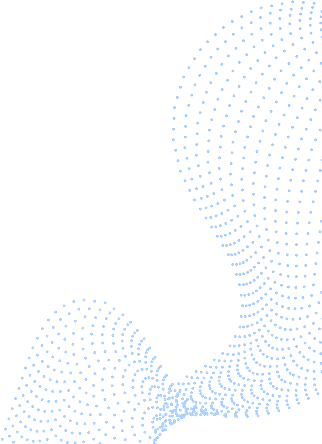
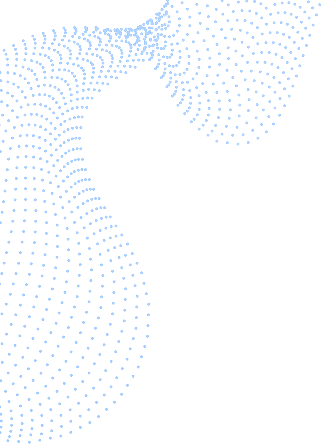
Background image added to about us section.

diff --git a/src/components/AboutUs/AboutUs.module.css b/src/components/AboutUs/AboutUs.module.css
@@ -1,5 +1,10 @@
 .aboutUsSection {
   background-color: var(--main-bg-color);
+  background-image: url("../../images/bg-art-1.png"),
+    url("../../images/bg-art-2.png");
+  background-position: left top, right bottom;
+  background-repeat: no-repeat;
+  background-size: 250px;
   padding: 1rem 1.5rem 3rem 1.5rem;
   display: flex;
   flex-direction: column;
@@ -45,6 +50,18 @@
   outline: none;
   padding: 0.5rem;
   cursor: pointer;
+}
+
+@media screen and (max-width: 768px) {
+  .aboutUsSection {
+    background-color: var(--main-bg-color);
+    background-image: none;
+    padding: 1rem 1.5rem 3rem 1.5rem;
+    display: flex;
+    flex-direction: column;
+    row-gap: 1rem;
+    align-items: center;
+  }
 }
 
 @media screen and (max-width: 871px) {

diff --git a/src/components/AboutUs/AboutUs.js b/src/components/AboutUs/AboutUs.js
@@ -5,6 +5,8 @@ import styles from "./AboutUs.module.css";
 import { AnimationOnScroll } from "react-animation-on-scroll";
 import "animate.css/animate.min.css";
 import { Link } from "react-scroll";
+import bgArt1 from "../../images/bg-art-1.png";
+import bgArt2 from "../../images/bg-art-2.png";
 
 export default function AboutUs() {
   return (
